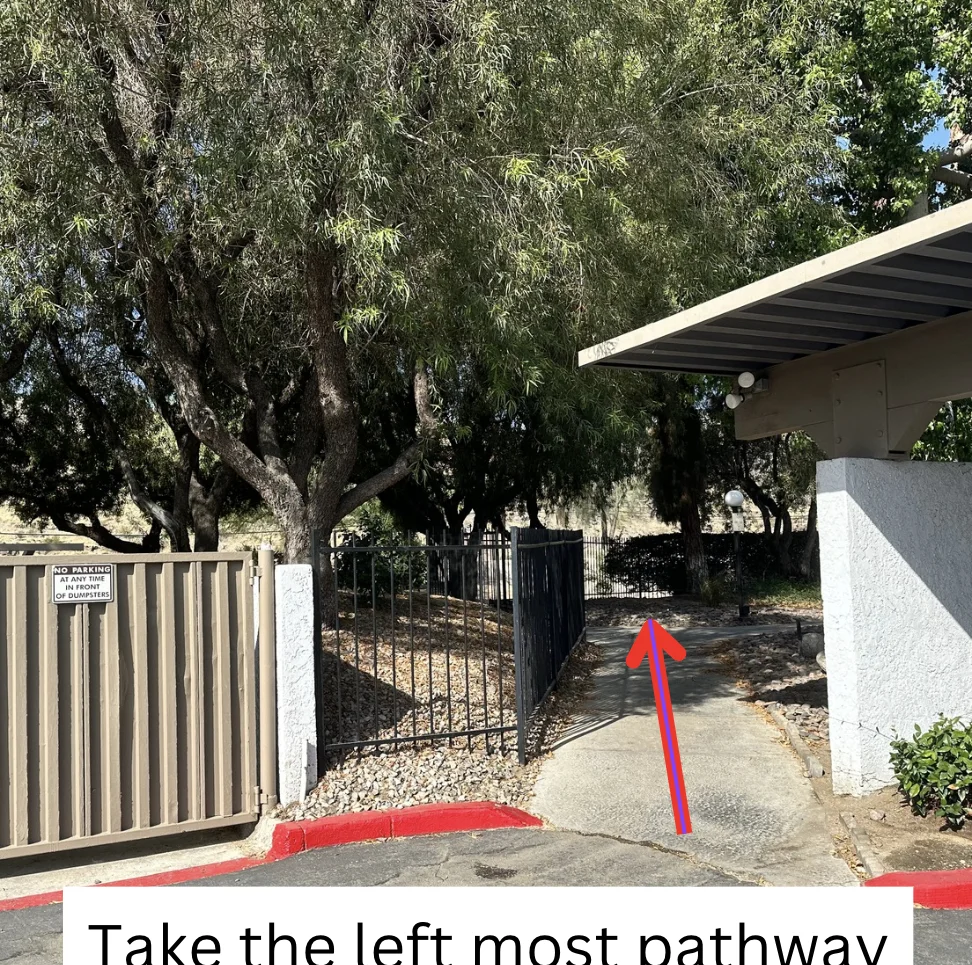
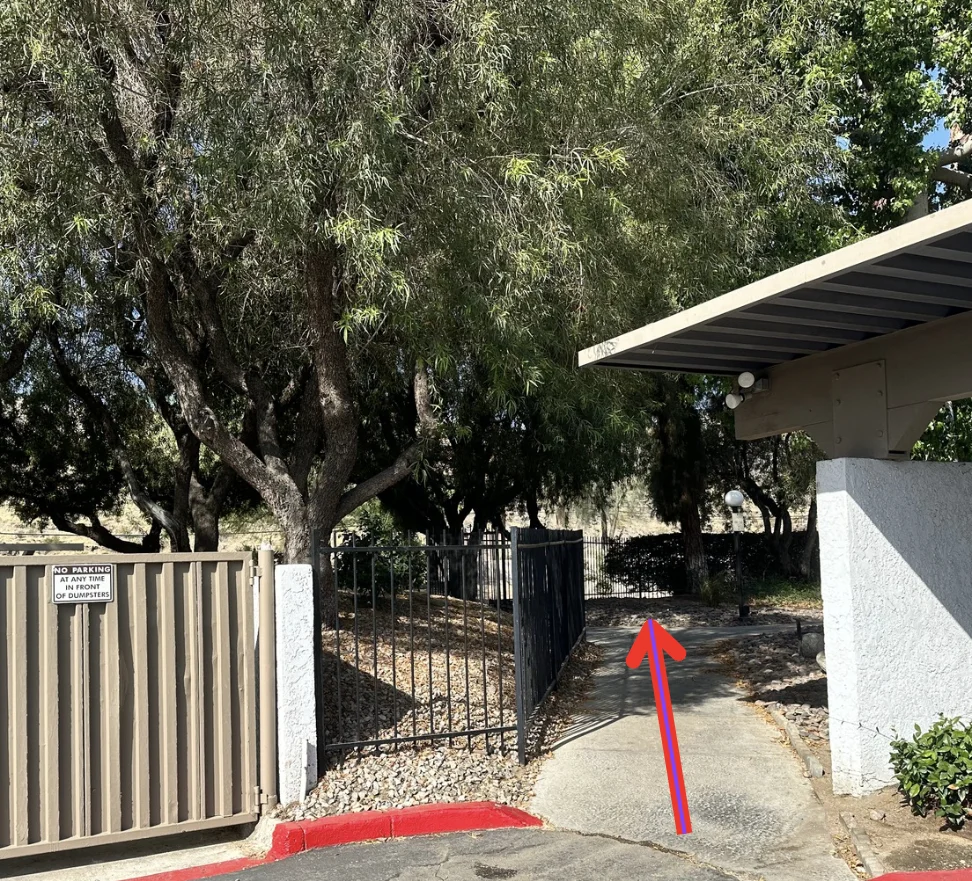
Sundune welcome guide: crop caption box out of left-most pathway photo

diff --git a/the-sundune/welcome-guide/index.html b/the-sundune/welcome-guide/index.html
@@ -933,7 +933,7 @@
         </div>
         <div class="step-item">
           <div class="step-item-img">
-            <img src="step-4-take-left-most-pathway.webp" alt="Gate and path to the left of the dumpsters, the left-most pathway into the community" loading="lazy" width="972" height="965">
+            <img src="step-4-take-left-most-pathway.webp" alt="Gate and path to the left of the dumpsters, the left-most pathway into the community" loading="lazy" width="972" height="881">
           </div>
           <p class="step-item-caption"><strong>Step 4.</strong> Take the left-most pathway into the community.</p>
         </div>
